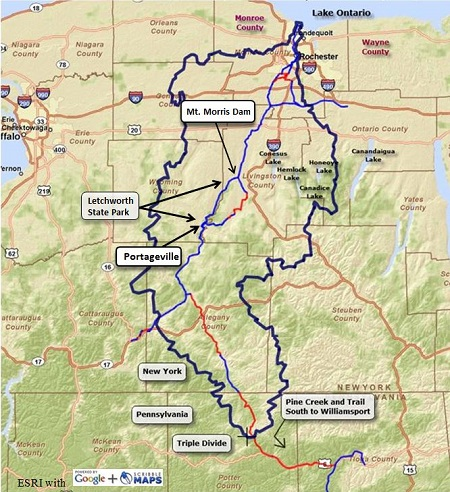
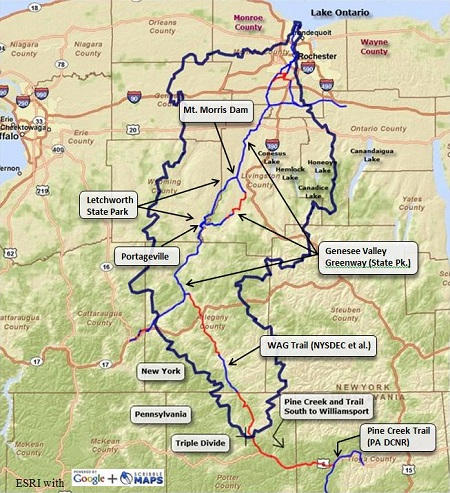
maps refined

diff --git a/grw_plan/grwp_preface.html b/grw_plan/grwp_preface.html
@@ -87,6 +87,9 @@
                 <a href="gen_riv_counties_map.html"><img src="images/griv_cnty450.jpg" alt="Genesee River Watershed, with Counties">
                     Click for larger image.</a>
                   </p>
+                  <p>
+                    Genesee River watershed boundaries with riverside multi-use trails in Triple Divide Trail System (Rochester, NY, to Williamsport, PA), recently incorporated into route of 400-mile long Genesee-Susquehanna Greenway (Lake Ontario in Rochester, NY, to Chesapeake Bay in Havre de Grace, MD).  The trail system strategically functions as a toehold for creating a wider corridor of forested riparian (streamside) buffers that will provide additional protections for the Genesee River and other water resources along the corridor.
+                  </p>
 
                 <br>
                 <br>
